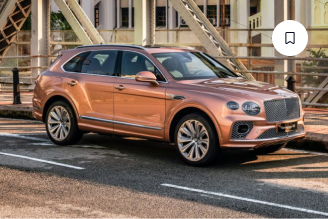
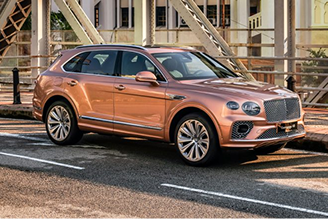
fixed card component and added carousel to style correclty

diff --git a/app/components/sections/MostSearchSection/MostSearchSection.tsx b/app/components/sections/MostSearchSection/MostSearchSection.tsx
@@ -7,25 +7,24 @@ import { cars } from "../../../../data/cars";
 import Tabs from "../../ui/Tabs";
 import Button from "../../ui/Button";
 import useEmblaCarousel from "embla-carousel-react";
-import { FiArrowLeft, FiArrowRight } from "react-icons/fi";
+import clsx from "clsx";
 
 const MostSearchSection: React.FC = () => {
   const [activeTab, setActiveTab] = useState("In Stock");
   const searchedCarsTabs = ["In Stock", "Sedan", "SUV", "Convertible"];
-
   const filteredCars = cars.filter((car) => {
     if (activeTab === "In Stock") return car.inStock;
     return car.category === activeTab;
   });
-
-  const [emblaRef, emblaApi] = useEmblaCarousel({ align: "start", dragFree: true });
+  const [emblaRef, emblaApi] = useEmblaCarousel({
+    align: "start",
+    dragFree: true,
+  });
   return (
     <section className="px-6">
       <h2 className="text-center font-bold text-[40px] mb-12 mt-12">
         The Most Searched Cars
       </h2>
-
-      {/* Tabs */}
       <div className="flex gap-6 justify-center border-b max-w-7xl mx-auto border-gray-300">
         <Tabs
           tabs={searchedCarsTabs}
@@ -34,13 +33,12 @@ const MostSearchSection: React.FC = () => {
           className="max-w-7xl mx-auto"
         />
       </div>
-      {/* Carousel */}
       <div className="relative mt-6">
         <div className="overflow-hidden" ref={emblaRef}>
           <div className="flex gap-6">
             {filteredCars.map((car) => (
               <div key={car.id} className="min-w-[300px] flex-shrink-0">
-                <Card className="rounded-xl shadow-lg bg-[#050B20]">
+                <Card className="rounded-xl relative shadow-lg bg-[#050B20]">
                   <div className="relative w-full h-48">
                     <Image
                       src={car.image}
@@ -49,9 +47,27 @@ const MostSearchSection: React.FC = () => {
                       className="object-cover rounded-t-xl"
                     />
                   </div>
+                  {car.label && (
+                    <div
+                      className={clsx(
+                        "absolute top-2 left-2 px-3 py-1 text-sm font-bold rounded-xl text-white",
+                        {
+                          "bg-[#3D923A]": car.label === "Great Price",
+                          "bg-blue-500": car.label === "Low Mileage",
+                        }
+                      )}
+                    >
+                      {car.label}
+                    </div>
+                  )}
+                  <div className="absolute top-2 right-2 bg-white px-3 py-2 rounded-full">
+                    <img src="/Icons/bookmark.svg" className="w-3 h-4" />
+                  </div>
                   <div className="p-4 flex flex-col">
                     <div>
-                      <p className="text-lg text-white font-bold">{car.title}</p>
+                      <h3 className="text-lg text-white font-bold">
+                        {car.title}
+                      </h3>
                       <p className="text-sm text-white opacity-80 line-clamp-2">
                         {car.description}
                       </p>
@@ -67,13 +83,14 @@ const MostSearchSection: React.FC = () => {
                         <span>{car.fuel}</span>
                       </div>
                       <div className="flex flex-col items-center gap-1">
-                        <img src="/Icons/transmission.svg" className="w-5 h-5" />
+                        <img
+                          src="/Icons/transmission.svg"
+                          className="w-5 h-5"
+                        />
                         <span>{car.transmission}</span>
                       </div>
                     </div>
-
                     <div className="border-t border-gray-600 my-2" />
-
                     <div className="flex gap-3 items-center justify-between">
                       <p className="text-lg font-semibold text-white">
                         ${car.price.toLocaleString()}
@@ -97,20 +114,18 @@ const MostSearchSection: React.FC = () => {
             ))}
           </div>
         </div>
-
-        {/* Carousel Arrows */}
         <div className="flex justify-center gap-8 mt-3">
           <button
             onClick={() => emblaApi?.scrollPrev()}
             className="p-3 px-5 bg-white rounded-full flex items-center border border-gray-300 justify-center hover:bg-gray-100"
           >
-            <FiArrowLeft className="text-black w-5 h-5" />
+            <img src="/Icons/left.svg" alt="left-icon" className="w-3 h-3" />
           </button>
           <button
             onClick={() => emblaApi?.scrollNext()}
             className="p-3 px-5 bg-white rounded-full flex items-center border border-gray-300 justify-center hover:bg-gray-100"
           >
-            <FiArrowRight className="text-black w-5 h-5" />
+            <img src="/Icons/right.svg" alt="right-icon" className="w-3 h-3" />
           </button>
         </div>
       </div>

diff --git a/data/cars.ts b/data/cars.ts
@@ -59,7 +59,7 @@ export const cars: Car[] = [
     transmission: "Automatic",
     miles: 2000,
     price: 45000,
-    image: "/images/car5.png",
+    image: "/images/corolla.png",
     inStock: true,
     category: "SUV",
   },
@@ -71,7 +71,7 @@ export const cars: Car[] = [
     transmission: "Manual",
     miles: 5000,
     price: 26000,
-    image: "/images/car6.png",
+    image: "/images/corolla.png",
     inStock: false,
     category: "Convertible",
   },
@@ -83,7 +83,7 @@ export const cars: Car[] = [
     transmission: "Automatic",
     miles: 300,
     price: 40000,
-    image: "/images/car7.png",
+    image: "/images/corolla.png",
     inStock: true,
     category: "Other",
   },
@@ -95,7 +95,7 @@ export const cars: Car[] = [
     transmission: "Automatic",
     miles: 1800,
     price: 38000,
-    image: "/images/car8.png",
+    image: "/images/corolla.png",
     inStock: true,
     category: "Sedan",
   },
@@ -107,7 +107,7 @@ export const cars: Car[] = [
     transmission: "Automatic",
     miles: 700,
     price: 32000,
-    image: "/images/car9.png",
+    image: "/images/corolla.png",
     inStock: true,
     category: "SUV",
   },
@@ -119,7 +119,7 @@ export const cars: Car[] = [
     transmission: "Automatic",
     miles: 1200,
     price: 50000,
-    image: "/images/car10.png",
+    image: "/images/corolla.png",
     inStock: true,
     category: "Convertible",
   },
@@ -131,7 +131,7 @@ export const cars: Car[] = [
     transmission: "Automatic",
     miles: 1500,
     price: 42000,
-    image: "/images/car11.png",
+    image: "/images/corolla.png",
     inStock: true,
     category: "SUV",
   },
@@ -143,7 +143,7 @@ export const cars: Car[] = [
     transmission: "Automatic",
     miles: 800,
     price: 20000,
-    image: "/images/car12.png",
+    image: "/images/corolla.png",
     inStock: true,
     category: "Sedan",
   },
@@ -155,7 +155,7 @@ export const cars: Car[] = [
     transmission: "Automatic",
     miles: 900,
     price: 36000,
-    image: "/images/car13.png",
+    image: "/images/corolla.png",
     inStock: true,
     category: "SUV",
   },
@@ -167,7 +167,7 @@ export const cars: Car[] = [
     transmission: "Automatic",
     miles: 2000,
     price: 95000,
-    image: "/images/car14.png",
+    image: "/images/corolla.png",
     inStock: true,
     category: "Convertible",
   },
@@ -179,7 +179,7 @@ export const cars: Car[] = [
     transmission: "Automatic",
     miles: 500,
     price: 30000,
-    image: "/images/car15.png",
+    image: "/images/corolla.png",
     inStock: true,
     category: "SUV",
   },

diff --git a/types/car.ts b/types/car.ts
@@ -1,14 +1,15 @@
+export type CarLabel = "Great Price" | "Low Mileage";
+
 export type Car = {
-    id: number;
-    title: string;
-    description: string;
-    fuel: string;
-    transmission: string;
-    miles: number;
-    price: number;
-    label?: string;
-    image: string;
-    inStock: boolean;
-    category: "Sedan" | "SUV" | "Convertible" | "Other";
-  };
-  
+  id: number;
+  title: string;
+  description: string;
+  fuel: string;
+  transmission: string;
+  miles: number;
+  price: number;
+  label?: CarLabel;
+  image: string;
+  inStock: boolean;
+  category: "Sedan" | "SUV" | "Convertible" | "Other";
+};

diff --git a/app/components/sections/HeroSection/HeroSection.tsx b/app/components/sections/HeroSection/HeroSection.tsx
@@ -11,7 +11,7 @@ const HeroSection: React.FC = () => {
       <p className="text-base mt-20 mb-4">
         Find cars for sale and for rent near you
       </p>
-      <h1 className="md:text-[70px] font-bold mb-6">Find Your Dream Car</h1>
+      <h1 className="text-[70px] md: text-center font-bold mb-6">Find Your Dream Car</h1>
       <Card className="bg-white rounded-lg lg:rounded-full p-4">
         <div className="flex flex-col gap-3 lg:flex-row lg:items-center">
           {selectOptions.map((item, index) => (

diff --git a/app/components/layout/Header.tsx b/app/components/layout/Header.tsx
@@ -11,7 +11,6 @@ export default function Header() {
   return (
     <header className="p-4">
       <div className="flex flex-wrap items-center justify-between">
-        {/* Logo + Phone */}
         <div className="flex items-center gap-2 flex-shrink-0">
           <Image
             src="/Images/logo black.png"

diff --git a/app/components/ui/Select.tsx b/app/components/ui/Select.tsx
@@ -1,6 +1,5 @@
 "use client";
 import React, { useState, useRef, useEffect } from "react";
-import { ChevronDownIcon } from "@heroicons/react/24/solid";
 import clsx from "clsx";
 
 interface SelectOption {

diff --git a/app/components/ui/Tabs.tsx b/app/components/ui/Tabs.tsx
@@ -1,5 +1,4 @@
 "use client";
-
 import clsx from "clsx";
 
 type TabsProps = {
